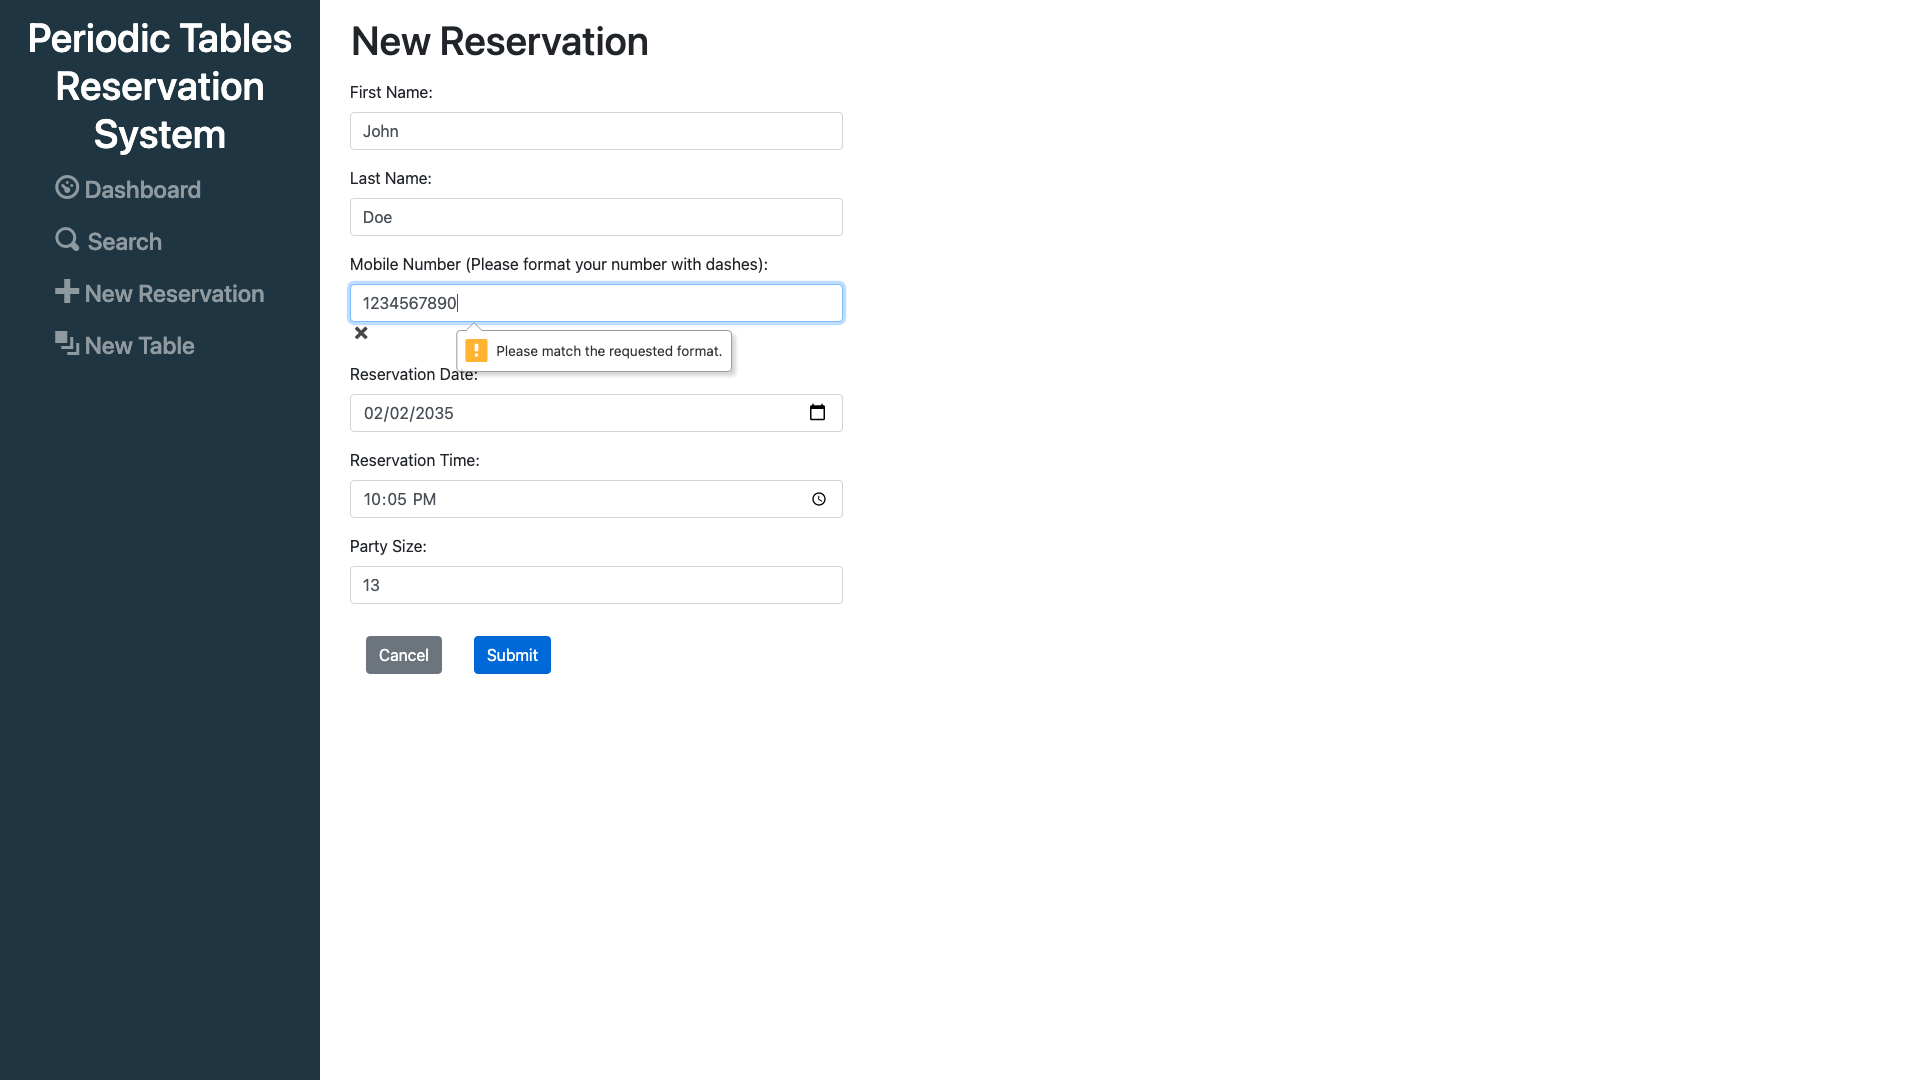
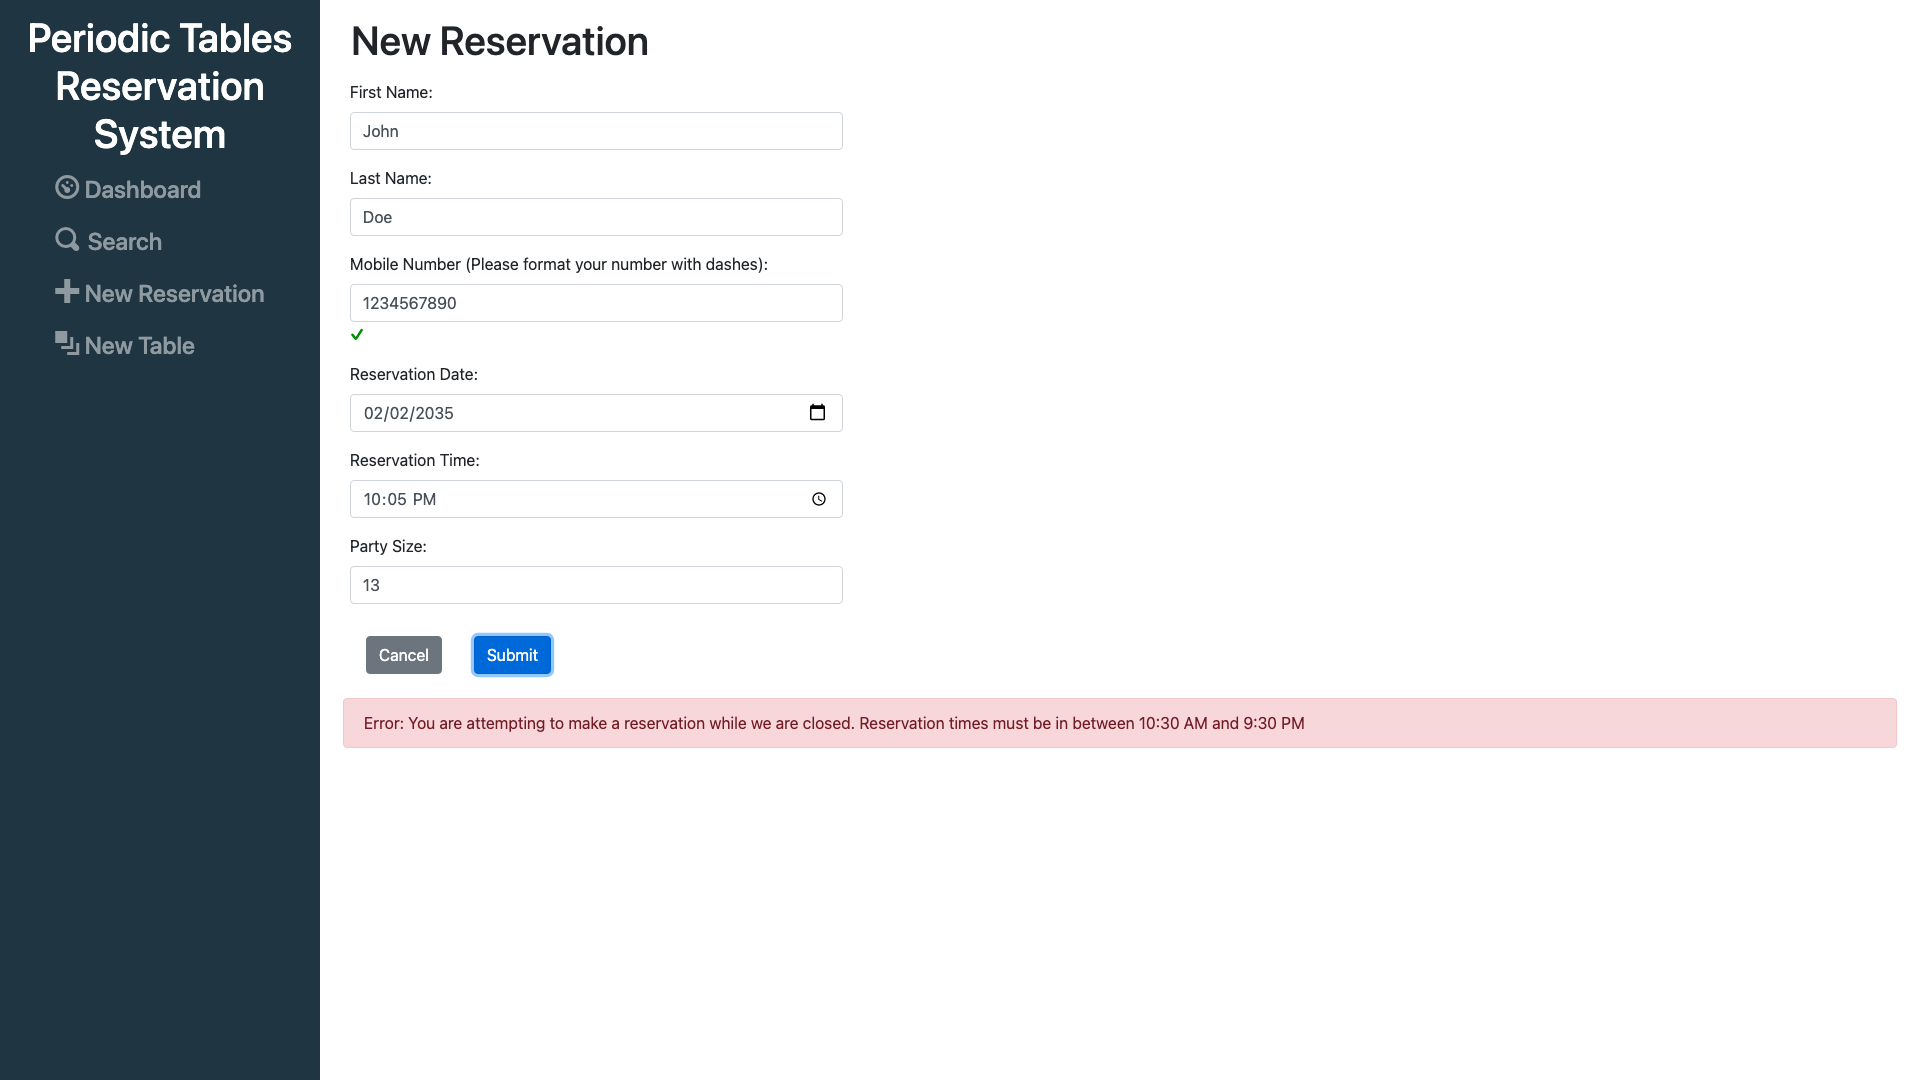
adjusted forms to not format time or date to pass the front end:2 tests

Changed region(s): [[0.1562, 0.5806, 1.0, 0.7028], [0.1875, 0.2444, 0.4375, 0.3667]]

diff --git a/front-end/src/Forms/ReservationForm.js b/front-end/src/Forms/ReservationForm.js
@@ -1,7 +1,7 @@
 import React, { useState, useEffect } from 'react';
 import { useHistory } from 'react-router-dom';
 import { useParams } from 'react-router';
-import { today, formatAsTime, formatAsDate } from '../utils/date-time';
+import { today, formatAsTime } from '../utils/date-time';
 import {
   createReservation,
   getReservation,
@@ -61,8 +61,8 @@ const ReservationForm = () => {
       last_name: formData.last_name,
       people: formData.people,
       mobile_number: formData.mobile_number,
-      reservation_date: formatAsDate(formData.reservation_date),
-      reservation_time: formatAsTime(formData.reservation_time),
+      reservation_date: formData.reservation_date,
+      reservation_time: formData.reservation_time,
       status: 'booked',
       reservation_id: reservation_id,
     };
@@ -155,7 +155,6 @@ const ReservationForm = () => {
             name="reservation_date"
             onChange={handleChange}
             placeholder="YYYY-MM-DD"
-            pattern="\d{4}-\d{2}-\d{2}"
             value={formData.reservation_date}
             required={true}
           />
@@ -169,7 +168,6 @@ const ReservationForm = () => {
             className="form-control"
             onChange={handleChange}
             placeholder="HH:MM"
-            pattern="[0-9]{2}:[0-9]{2}"
             value={formData.reservation_time}
             required
           />
